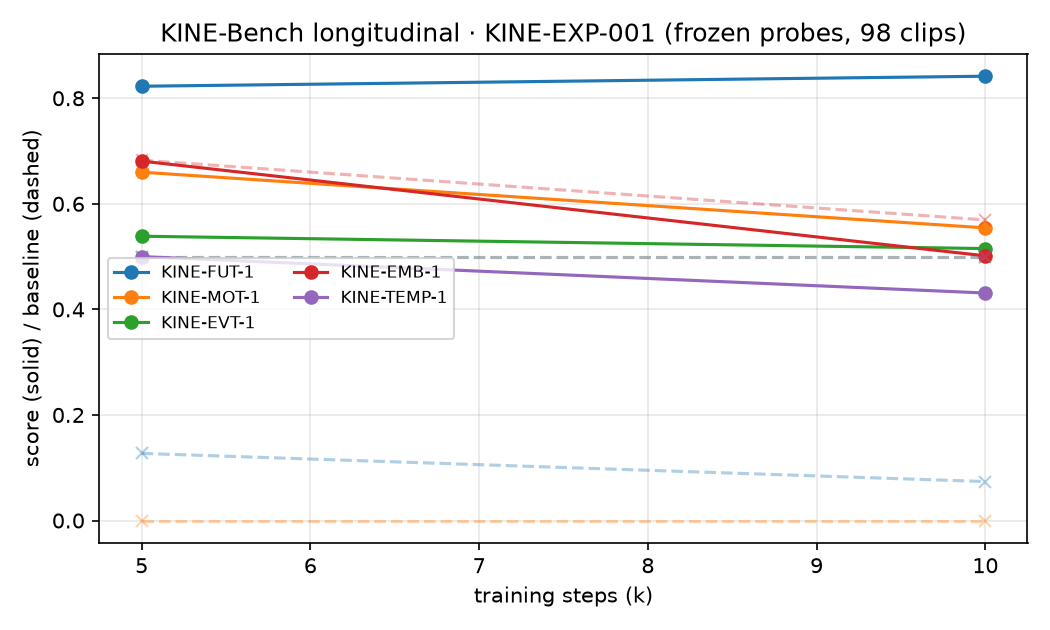
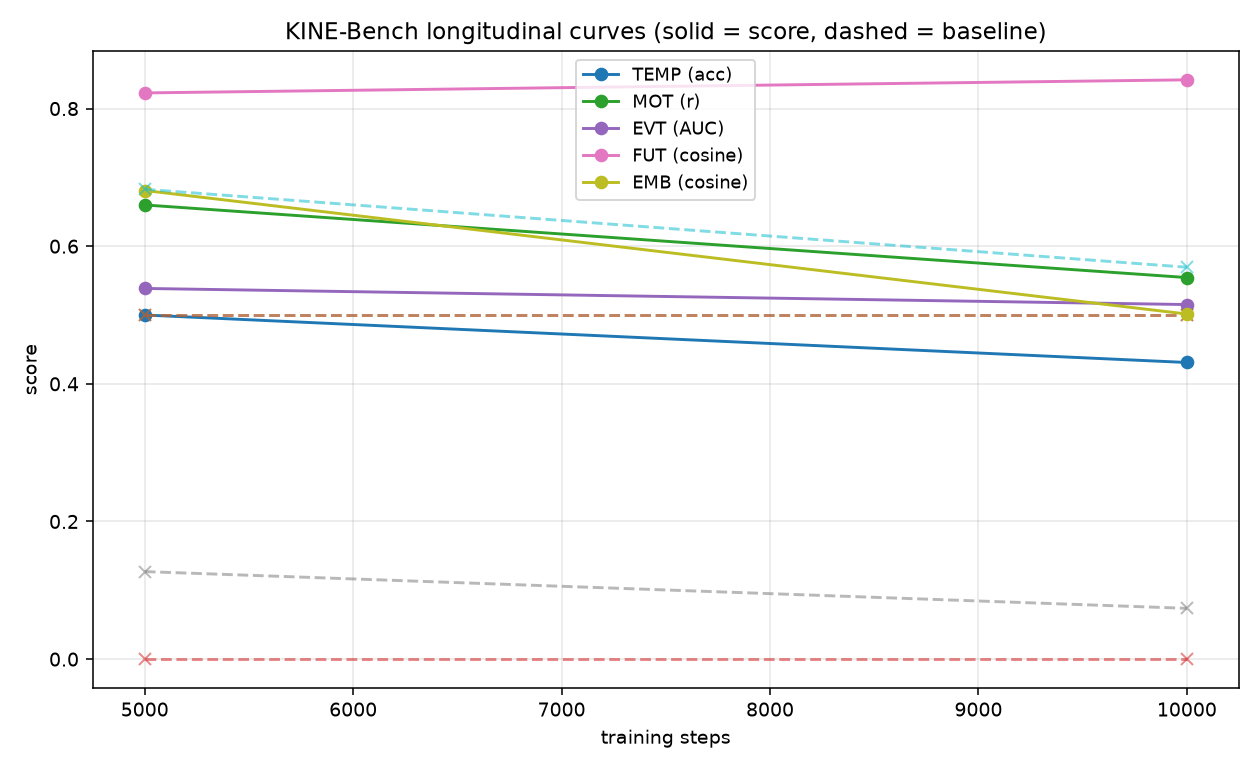
add plot_longitudinal.py: regenerate longitudinal chart from committed JSON

Changed region(s): [[0.0, 0.0302, 1.0, 0.9651], [0.0, 0.5429, 0.0914, 0.6937]]

diff --git a/scripts/plot_longitudinal.py b/scripts/plot_longitudinal.py
@@ -1,0 +1,68 @@
+"""Plot longitudinal KINE-Bench curves from results/*-v03.json checkpoints."""
+
+import json
+import re
+from pathlib import Path
+
+import matplotlib
+
+matplotlib.use("Agg")
+import matplotlib.pyplot as plt
+
+RESULTS_DIR = Path(__file__).resolve().parent.parent / "results"
+
+TASKS = [
+    ("KINE-TEMP-1", "accuracy", "baseline", "acc"),
+    ("KINE-MOT-1", "pearson_r", "baseline", "r"),
+    ("KINE-EVT-1", "auc", "baseline", "AUC"),
+    ("KINE-FUT-1", "cosine", "random_baseline", "cosine"),
+    ("KINE-EMB-1", "cosine", "random_baseline", "cosine"),
+]
+
+
+def load_series():
+    series = {}
+    for path in sorted(RESULTS_DIR.glob("*-v03.json")):
+        m = re.search(r"step(\d+)", path.name)
+        if not m:
+            continue
+        step = int(m.group(1))
+        with open(path, encoding="utf-8") as f:
+            data = json.load(f)
+        series[step] = data.get("tasks", {})
+    return series
+
+
+def main():
+    series = load_series()
+    if not series:
+        raise SystemExit("no results/*-v03.json found")
+    steps = sorted(series)
+
+    fig, ax = plt.subplots(figsize=(9, 5.5))
+    for task, score_key, base_key, unit in TASKS:
+        xs, ys, bs = [], [], []
+        for step in steps:
+            t = series[step].get(task)
+            if not t or score_key not in t:
+                continue
+            xs.append(step)
+            ys.append(t[score_key])
+            bs.append(t.get(base_key, t.get("random_baseline")))
+        label = task.replace("KINE-", "").replace("-1", "")
+        ax.plot(xs, ys, marker="o", label=f"{label} ({unit})")
+        ax.plot(xs, bs, marker="x", linestyle="--", alpha=0.55)
+
+    ax.set_xlabel("training steps")
+    ax.set_ylabel("score")
+    ax.set_title("KINE-Bench longitudinal curves (solid = score, dashed = baseline)")
+    ax.grid(alpha=0.3)
+    ax.legend(fontsize=9)
+    out = RESULTS_DIR / "longitudinal.png"
+    fig.tight_layout()
+    fig.savefig(out, dpi=140)
+    print(f"[plot] wrote {out} from checkpoints {steps}")
+
+
+if __name__ == "__main__":
+    main()
